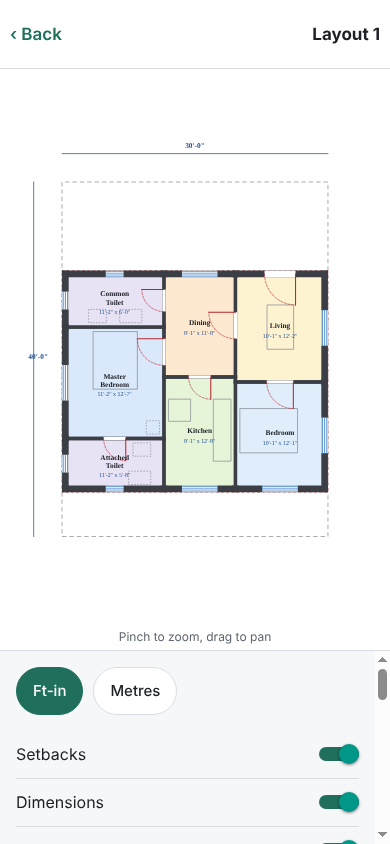
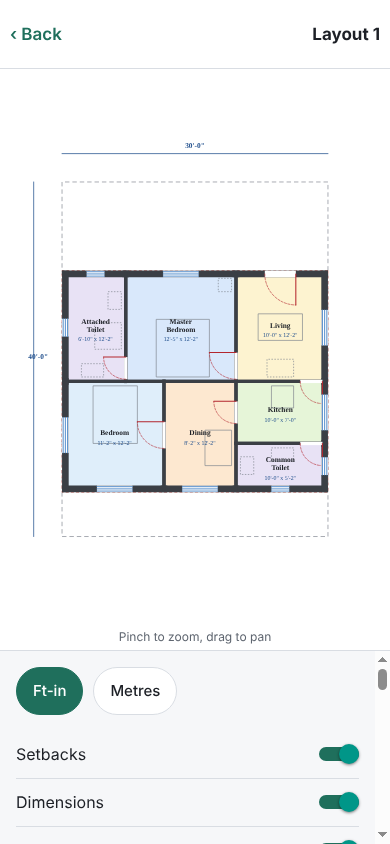
Move remaining UI and renderer text into the English strings file
Wizard option labels, room names, accessibility labels, the pop-up error,
and the plan's car, two-wheeler and north labels now come from strings, so
Hindi can be added in one place. Compass letters stay as they are.

Claude-Session: https://claude.ai/code/session_011zKZos6ChLxwd9PGTRVj7v

Changed region(s): [[0.1538, 0.3081, 0.8615, 0.5853], [0.9538, 0.8009, 1.0, 0.8318]]

diff --git a/render/scene.ts b/render/scene.ts
@@ -21,11 +21,19 @@ export interface Scene {
   items: Item[];
 }
 
+export interface PlanLabels {
+  car: string;
+  twoWheeler: string;
+  north: string;
+}
+
 export interface PlanOptions {
   unit: Unit;
   showSetbacks: boolean;
   showDimensions: boolean;
   showFurniture: boolean;
+  /** Text for the parking and north labels. */
+  labels: PlanLabels;
   /** Room to outline in the accent colour (the one being edited). */
   selectedRoomId?: string;
   /** Rooms with validation issues, outlined in red. */
@@ -39,6 +47,7 @@ export const DEFAULT_PLAN_OPTIONS: PlanOptions = {
   showSetbacks: true,
   showDimensions: true,
   showFurniture: true,
+  labels: { car: 'Car', twoWheeler: '2W', north: 'N' },
   scale: 12,
 };
 
@@ -128,7 +137,7 @@ export function planScene(layout: Layout, opts: Partial<PlanOptions> = {}): Scen
   for (const p of layout.parking) {
     poly(rectPoints(p.rect), COLORS.parkingFill, 'parking', { stroke: COLORS.parking, strokeWidth: 1 });
     const c = { x: p.rect.x + p.rect.w / 2, y: p.rect.y + p.rect.h / 2 };
-    text(c, p.kind === 'car' ? 'Car' : '2W', 9, COLORS.text, 'parking');
+    text(c, p.kind === 'car' ? o.labels.car : o.labels.twoWheeler, 9, COLORS.text, 'parking');
   }
 
   // 4. Furniture: thin grey outlines. Assumed sizes are dashed so they can be checked.
@@ -186,7 +195,7 @@ export function planScene(layout: Layout, opts: Partial<PlanOptions> = {}): Scen
   const naBase = local({ x: frame.width + 9, y: frame.depth - 7 });
   items.push({ kind: 'polyline', points: [naBase, na], stroke: '#000', strokeWidth: 2, layer: 'north' });
   items.push({ kind: 'polygon', points: [na, { x: na.x - 5, y: na.y + 12 }, { x: na.x + 5, y: na.y + 12 }], fill: '#000', layer: 'north' });
-  items.push({ kind: 'text', x: na.x, y: na.y - 6, text: 'N', size: 14, fill: '#000', anchor: 'middle', weight: 'bold', layer: 'north' });
+  items.push({ kind: 'text', x: na.x, y: na.y - 6, text: o.labels.north, size: 14, fill: '#000', anchor: 'middle', weight: 'bold', layer: 'north' });
 
   return { width: extent.width, height: extent.height, items };
 }

diff --git a/ui/wizard.tsx b/ui/wizard.tsx
@@ -70,13 +70,13 @@ export function BuildingStep({ input, setInput }: StepProps) {
       />
       <Label>{t.building.cars}</Label>
       <ChipGroup
-        options={[{ value: 0 as const, label: 'None' }, { value: 1 as const, label: '1' }]}
+        options={[{ value: 0 as const, label: t.options.none }, { value: 1 as const, label: '1' }]}
         value={input.parking.cars}
         onChange={(v) => setInput({ ...input, parking: { ...input.parking, cars: v } })}
       />
       <Label>{t.building.twoWheelers}</Label>
       <ChipGroup
-        options={[{ value: 0 as const, label: 'None' }, { value: 1 as const, label: '1' }, { value: 2 as const, label: '2' }]}
+        options={[{ value: 0 as const, label: t.options.none }, { value: 1 as const, label: '1' }, { value: 2 as const, label: '2' }]}
         value={input.parking.twoWheelers}
         onChange={(v) => setInput({ ...input, parking: { ...input.parking, twoWheelers: v } })}
       />
@@ -91,11 +91,7 @@ export function BuildingStep({ input, setInput }: StepProps) {
 }
 
 const ROOM_KINDS: RoomKind[] = ['living', 'dining', 'kitchen', 'master', 'bedroom', 'attachedToilet', 'commonToilet', 'puja', 'study', 'guest', 'store', 'utility'];
-const ROOM_NAMES: Partial<Record<RoomKind, string>> = {
-  living: 'Living', dining: 'Dining', kitchen: 'Kitchen', master: 'Master bedroom', bedroom: 'Bedroom',
-  attachedToilet: 'Attached toilet', commonToilet: 'Common toilet', puja: 'Puja', study: 'Study', guest: 'Guest bedroom',
-  store: 'Store', utility: 'Utility / wash',
-};
+const ROOM_NAMES = t.roomNames as Partial<Record<RoomKind, string>>;
 
 export function RoomsStep({ input, setInput, unit }: StepProps) {
   const [showSizes, setShowSizes] = useState(false);

diff --git a/ui/strings.ts b/ui/strings.ts
@@ -115,7 +115,18 @@ export const en = {
     scorecard: 'Scorecard',
     disclaimer: 'Concept layout only. Not a sanctioned or structural drawing. Verify bye-laws with the local authority and consult a qualified engineer before construction.',
   },
+  options: { none: 'None' },
+  roomNames: {
+    living: 'Living', dining: 'Dining', kitchen: 'Kitchen', master: 'Master bedroom', bedroom: 'Bedroom',
+    attachedToilet: 'Attached toilet', commonToilet: 'Common toilet', puja: 'Puja', study: 'Study', guest: 'Guest bedroom',
+    store: 'Store', utility: 'Utility / wash',
+  },
+  a11y: {
+    units: (label: string) => `Units: ${label}`,
+    editRoom: (label: string) => `Edit ${label}`,
+  },
   errors: {
+    popupBlocked: 'Pop-up blocked. Allow pop-ups for this site and try again.',
     badLength: 'Enter as 30\'-6" or 30.5 (feet)',
     tooSmall: 'Plot is too small for this programme. Reduce rooms or enlarge the plot.',
   },
@@ -137,6 +148,7 @@ export const exportCopy = {
   efficiency: 'Space efficiency',
   circulation: 'Circulation',
   layout: 'Layout',
+  sqFt: 'sq ft',
   disclaimer: 'Concept layout only. Not a sanctioned or structural drawing. Verify bye-laws with the local authority and consult a qualified engineer before construction.',
   share: 'Share image',
   exportPdf: 'Export PDF',

diff --git a/ui/export.ts b/ui/export.ts
@@ -7,7 +7,7 @@ import * as FileSystem from 'expo-file-system';
 import { buildPlanPageHtml } from '../render/planHtml';
 import { layoutToDxf } from '../engine/export/dxf';
 import type { Layout, PlotInput, Unit } from '../engine';
-import { exportCopy } from './strings';
+import { exportCopy, en as t } from './strings';
 
 export function projectName(input: PlotInput): string {
   return `${input.width}x${input.depth} ${input.facing}, ${input.bhk}BHK`;
@@ -39,7 +39,7 @@ export async function exportPdf(layout: Layout, input: PlotInput, unit: Unit): P
   const html = pdfHtml(layout, input, unit);
   if (Platform.OS === 'web') {
     const w = window.open('', '_blank');
-    if (!w) throw new Error('Pop-up blocked');
+    if (!w) throw new Error(t.errors.popupBlocked);
     w.document.write(html);
     w.document.close();
     w.focus();

diff --git a/render/planHtml.ts b/render/planHtml.ts
@@ -21,6 +21,7 @@ export interface ExportCopy {
   circulation: string;
   disclaimer: string;
   layout: string;
+  sqFt: string;
 }
 
 export interface PlanPageInput {
@@ -39,7 +40,7 @@ export function buildPlanPageHtml(p: PlanPageInput): string {
   const { layout, input, unit, copy } = p;
   const svg = sceneToSvg(planScene(layout, { unit, showSetbacks: true, showDimensions: true, showFurniture: true }));
   const stmt = areaStatement(layout);
-  const area = (sqft: number) => (unit === 'm' ? formatArea(sqft, 'm') : `${Math.round(sqft)} sq ft`);
+  const area = (sqft: number) => (unit === 'm' ? formatArea(sqft, 'm') : `${Math.round(sqft)} ${copy.sqFt}`);
   const rows = stmt.rows
     .map((r) => `<tr><td>${esc(r.label)}</td><td class="num">${esc(area(r.carpetSqFt))}</td></tr>`)
     .join('');

diff --git a/ui/Viewer.tsx b/ui/Viewer.tsx
@@ -157,7 +157,7 @@ function RoomEditor({
   const [h, setH] = useState(currentH);
   const fmt = (ft: number) => formatLength(ft, unit);
   return (
-    <View style={styles.editor} accessibilityLabel={`Edit ${label}`}>
+    <View style={styles.editor} accessibilityLabel={t.a11y.editRoom(label)}>
       <Text style={styles.editorTitle}>{label}</Text>
       <Hint>{t.viewer.limits(`${fmt(limits.minW)} x ${fmt(limits.minH)}`, `${fmt(limits.maxW)} x ${fmt(limits.maxH)}`)}</Hint>
       <LengthField key={`w-${roomId}`} label={t.viewer.width} valueFt={w} unit={unit} invalidText={t.errors.badLength} onChange={setW} />

diff --git a/App.tsx b/App.tsx
@@ -160,7 +160,7 @@ function UnitToggle({ unit, onChange, compact }: { unit: Unit; onChange: (u: Uni
     <Pressable
       onPress={() => onChange(unit === 'ftin' ? 'm' : 'ftin')}
       accessibilityRole="button"
-      accessibilityLabel={`Units: ${label}`}
+      accessibilityLabel={t.a11y.units(label)}
       style={[styles.unitBtn, compact && { minHeight: 36 }]}
     >
       <Text style={styles.unitText}>{label}</Text>
